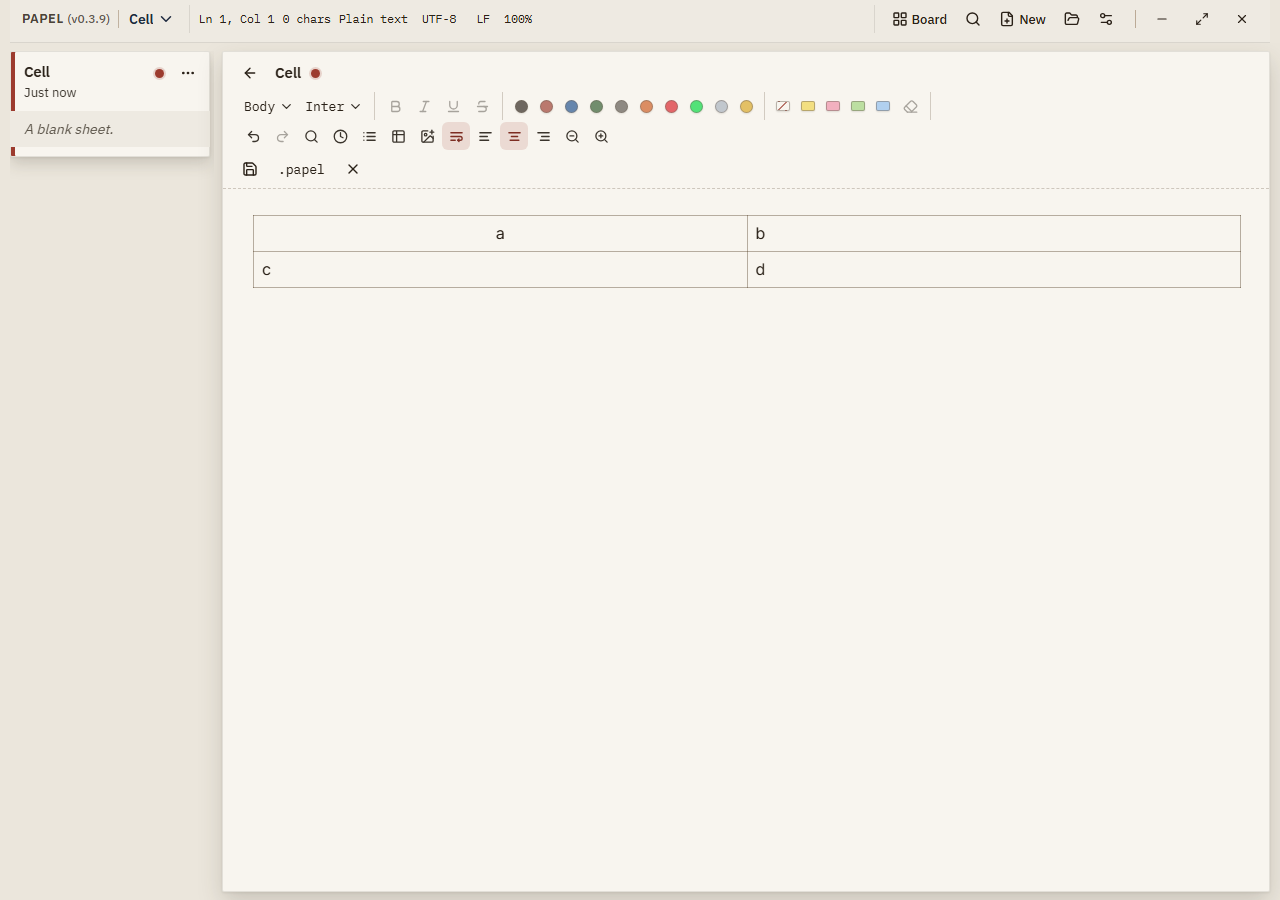
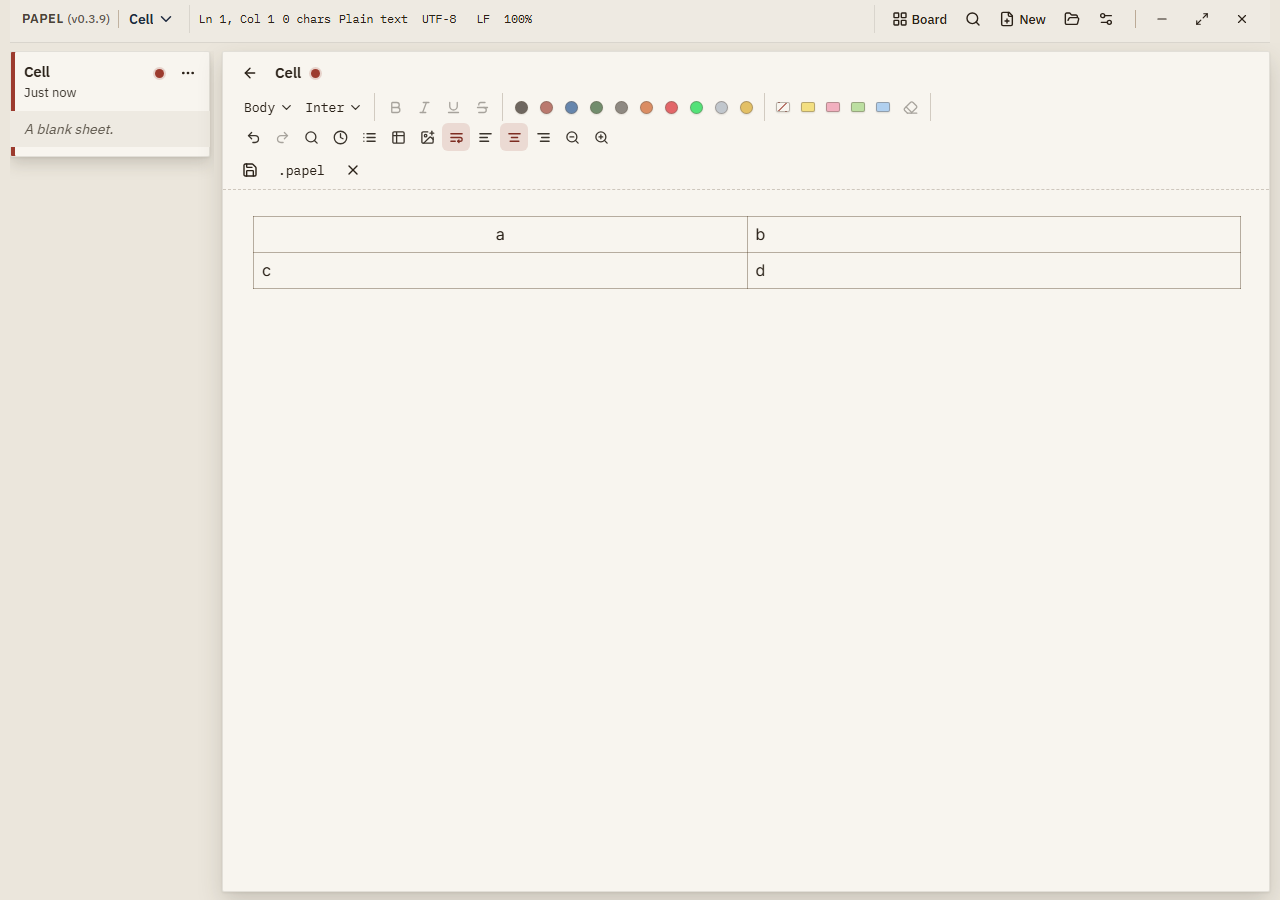
Release 0.5.2: remove Matrix skin, two-row sheet header so the toolbar stops reflowing
- Remove the Matrix skin (the 'Matrix green' ink stays — it is a colour, not a
  skin). A stale matrix preference falls back to sulphite via the existing
  SKINS validation in store.ts.
- Split the sheet header into two rows: .sheet-title-row (back + title + dirty)
  and a new full-width .sheet-tools-row (toolbar + save + save-as + delete). A
  variable-width Font/Style label can no longer move the row's wrap point, so
  picking a face such as 'JetBrains Mono' no longer makes the toolbar jump. (FB-33)

diff --git a/src/styles.css b/src/styles.css
@@ -282,53 +282,11 @@
     linear-gradient(180deg, #1a2120, #0c100f);
 }
 
-.desk[data-skin="matrix"] {
-  --paper: #000000;
-  --paper-2: #020a02;
-  --paper-edge: transparent;
-  --rule: #0a2a0a;
-  --syn-key: #00ff41;
-  --syn-str: #b6ffb6;
-  --syn-com: #1c6b1c;
-  --syn-type: #6dff94;
-  --selection: rgb(0 255 65 / 0.25);
-  --kraft: #000000;
-  --kraft-light: #061206;
-  --kraft-dark: #000000;
-  --ink: #00ff41;
-  --ink-soft: #4dff77;
-  --muted: #1fa83a;
-  --field: #031003;
-  --accent: #00ff41;
-  --accent-deep: #00b32d;
-  --status-paper: #020a02;
-  --shadow: rgb(0 0 0 / 0.85);
-  --shadow-soft: rgb(0 30 0 / 0.5);
-  --fibers: none;
-  --noise: none;
-  --mottle: none;
-  --grain: none;
-  --ink1: #ff9d8a;
-  --ink2: #8ad4ff;
-  --ink3: #6dff94;
-  --ink4: #b8f0b8;
-  --ink5: #ffb36a;
-  --ink6: #ff7a7a;
-  --ink7: #00ff41;
-  --ink8: #d6ffe0;
-  --ink9: #ffe066;
-  color-scheme: dark;
-  background:
-    radial-gradient(ellipse at 50% 25%, rgb(0 50 0 / 0.4) 0%, transparent 60%),
-    linear-gradient(180deg, #010801, #000000);
-}
-
 .desk[data-skin="ink"] .strip,
 .desk[data-skin="sulphite"] .strip,
 .desk[data-skin="carbon"] .strip,
 .desk[data-skin="blueprint"] .strip,
-.desk[data-skin="terminal"] .strip,
-.desk[data-skin="matrix"] .strip {
+.desk[data-skin="terminal"] .strip {
   filter: none;
 }
 
@@ -337,8 +295,7 @@
 .desk[data-skin="sulphite"] .strip-bg,
 .desk[data-skin="carbon"] .strip-bg,
 .desk[data-skin="blueprint"] .strip-bg,
-.desk[data-skin="terminal"] .strip-bg,
-.desk[data-skin="matrix"] .strip-bg {
+.desk[data-skin="terminal"] .strip-bg {
   display: none;
 }
 
@@ -415,38 +372,30 @@
   background: #163454;
 }
 
-/* Terminal & Matrix: dark header strip. The brand name and sheet-title dropdown use
-   hardcoded light-skin colours, so retint them from the skin vars (as blueprint does),
-   and pull the strip paper from --status-paper so it is dark, not the light default. */
-.desk[data-skin="terminal"] .strip-paper,
-.desk[data-skin="matrix"] .strip-paper {
+/* Terminal: dark header strip. The brand name and sheet-title dropdown use hardcoded
+   light-skin colours, so retint them from the skin vars (as blueprint does), and pull the
+   strip paper from --status-paper so it is dark, not the light default. */
+.desk[data-skin="terminal"] .strip-paper {
   background: var(--status-paper);
   border-bottom: 1px solid rgb(255 255 255 / 0.1);
 }
-.desk[data-skin="terminal"] .strip-status,
-.desk[data-skin="matrix"] .strip-status {
+.desk[data-skin="terminal"] .strip-status {
   border-left-color: rgb(255 255 255 / 0.12);
   border-right-color: rgb(255 255 255 / 0.12);
 }
 .desk[data-skin="terminal"] .sheet-frame,
-.desk[data-skin="terminal"] .card-bg,
-.desk[data-skin="matrix"] .sheet-frame,
-.desk[data-skin="matrix"] .card-bg {
+.desk[data-skin="terminal"] .card-bg {
   border: 1px solid rgb(255 255 255 / 0.12);
 }
-.desk[data-skin="terminal"] .brand-name,
-.desk[data-skin="matrix"] .brand-name {
+.desk[data-skin="terminal"] .brand-name {
   color: var(--muted);
   border-right-color: rgb(255 255 255 / 0.18);
 }
-.desk[data-skin="terminal"] .brand-ver,
-.desk[data-skin="matrix"] .brand-ver {
+.desk[data-skin="terminal"] .brand-ver {
   color: var(--ink-soft);
 }
 .desk[data-skin="terminal"] .variant,
-.desk[data-skin="terminal"] .variant-label,
-.desk[data-skin="matrix"] .variant,
-.desk[data-skin="matrix"] .variant-label {
+.desk[data-skin="terminal"] .variant-label {
   color: var(--ink);
 }
 
@@ -1229,13 +1178,6 @@
   box-shadow: 0 0 4px rgb(126 231 135 / 0.45);
 }
 
-.swatch[data-skin="matrix"] {
-  background: #000000;
-  border: 1px solid #00ff41;
-  border-radius: 2px;
-  box-shadow: 0 0 5px rgb(0 255 65 / 0.6);
-}
-
 /* ---------- Board & cards ---------- */
 
 .board {
@@ -1620,13 +1562,22 @@
 
 .sheet-title-row {
   display: flex;
-  /* Wrap, never clip: a narrow window must show every control on extra lines
-     instead of hiding the tail of the toolbar behind a scroll area with no
-     visible scrollbar. */
+  align-items: center;
+  gap: 6px;
+  min-width: 0;
+}
+
+/* Row 2 of the sheet header: the whole toolbar (tools + save + delete) on its own line,
+   so a variable-width Font/Style label can never shove the title around or move this
+   row's wrap point. Wrap, never clip: a narrow window shows every control on extra
+   lines instead of hiding the tail of the toolbar behind a scroll area. */
+.sheet-tools-row {
+  display: flex;
   flex-wrap: wrap;
   align-items: center;
   gap: 6px;
   row-gap: 4px;
+  margin-top: 5px;
 }
 
 .sheet-title {

diff --git a/src/lib/quire/text.ts b/src/lib/quire/text.ts
@@ -45,13 +45,6 @@ export const SKINS = [
     pattern: "blank",
     blurb: "Phosphor green on charcoal. A CRT for your words.",
   },
-  {
-    id: "matrix",
-    name: "Matrix",
-    edge: "clean",
-    pattern: "blank",
-    blurb: "Digital rain: neon green code on pure black.",
-  },
 ] as const;
 
 export type SkinId = (typeof SKINS)[number]["id"];

diff --git a/src/components/quire/sheet.tsx b/src/components/quire/sheet.tsx
@@ -351,6 +351,8 @@ export function Sheet({
               </h2>
             )}
             {session.is_dirty() && <span className="dirty" role="img" aria-label="Unsaved" title="Not saved to a file" />}
+          </div>
+          <div className="sheet-tools-row">
             {find.open ? (
               <FindBar find={find} />
             ) : (

diff --git a/src/lib/version.ts b/src/lib/version.ts
@@ -1,2 +1,2 @@
 /** App semver shown in the header. Keep in sync with shells/tauri/src-tauri version. */
-export const APP_VERSION = "0.5.1";
+export const APP_VERSION = "0.5.2";

diff --git a/AI_Documentation/FIXED-BUGS.md b/AI_Documentation/FIXED-BUGS.md
@@ -321,3 +321,13 @@ Guards live in `scripts/verify-bugs.mjs` unless a unit test is named. Build `dis
 - **Symptom:** The insert-table grid only offered up to 5 rows × 5 columns.
 - **Fix:** The picker grid is now 8×8 (64 cells). `src/components/quire/sheet.tsx`, `src/styles.css`.
 - **Guards:** manual; the picker grid CSS is `repeat(8, 1fr)`.
+
+## FB-33 — Toolbar jumped/reflowed when the font or style name changed
+
+- **Severity:** medium
+- **Fixed in:** 0.5.2
+- **Symptom:** Changing the font (or paragraph style) made the sheet toolbar "break" — buttons jumped to a different line and the editor shifted, because a menu label resizing ("Body" → "JetBrains Mono") moved the row's wrap point.
+- **Repro:** Open a sheet, pick a face with a long name; the toolbar reflows.
+- **Root cause:** The sheet title and the entire toolbar shared one flex row with `flex-wrap` (`.sheet-title-row`). The variable-width Font/Style labels changed the row's total width, so the wrap point — and every control after it — moved.
+- **Fix:** Split the header into two rows: `.sheet-title-row` (back + title + dirty) and a new `.sheet-tools-row` (toolbar + save + save-as + delete) that gets the full window width. The title row's box no longer changes when a font/style label grows. `src/components/quire/sheet.tsx`, `src/styles.css`.
+- **Guards:** `TB1-two-row-structure`, `TB2-title-row-stable-on-font-change` (qa-toolbar.mjs)
